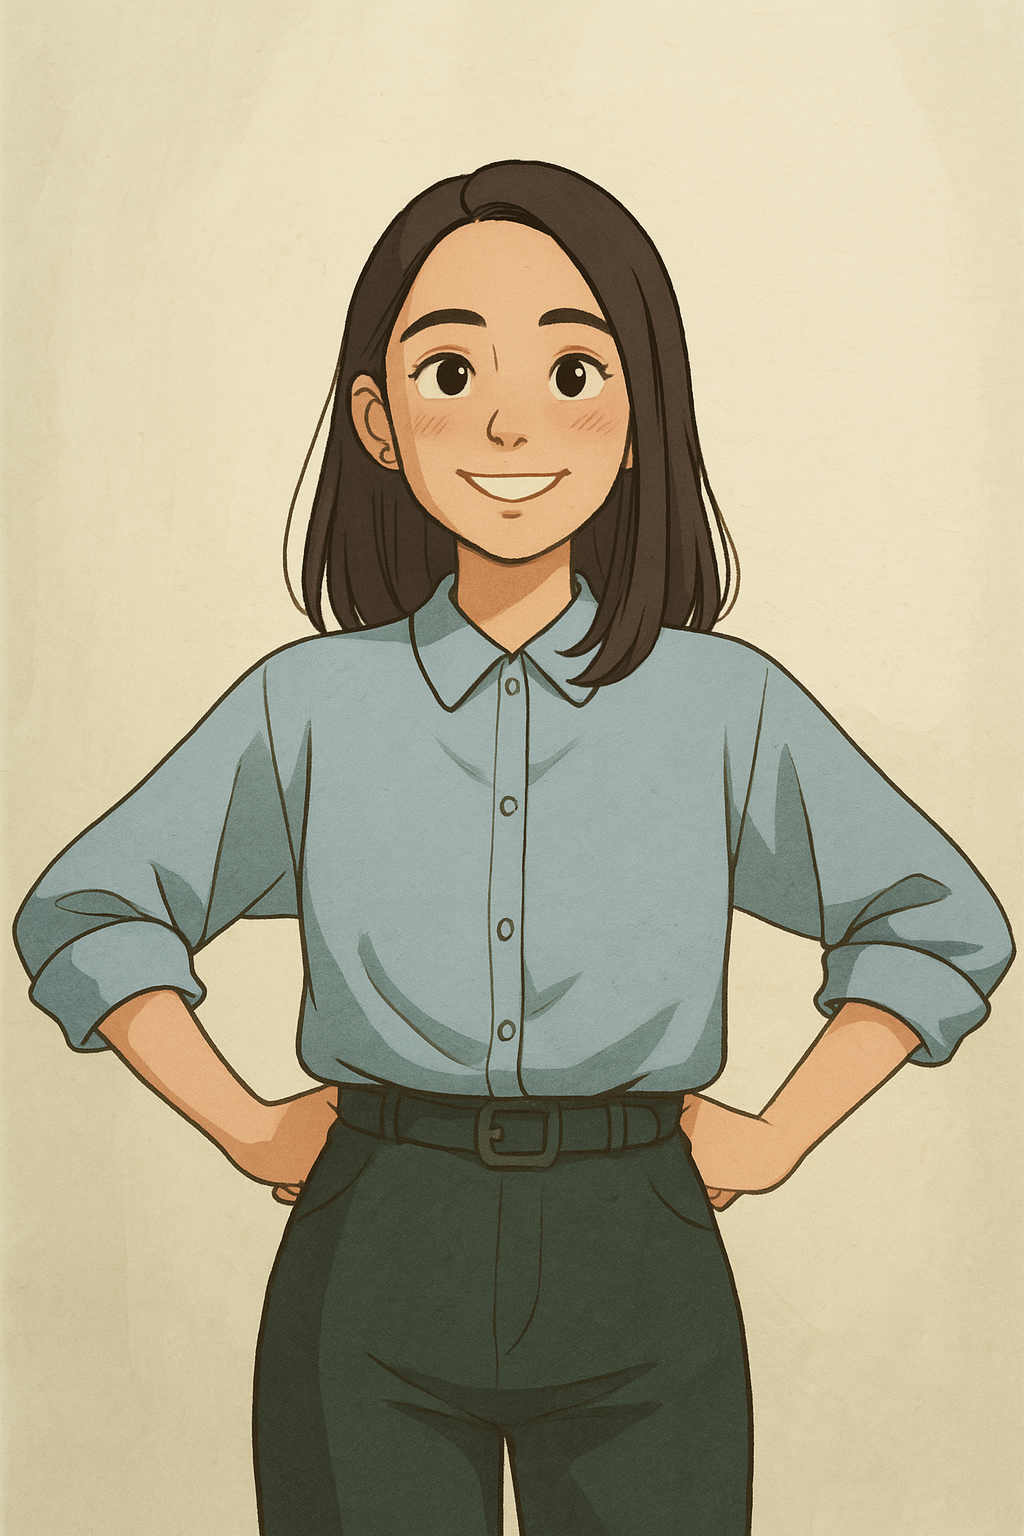
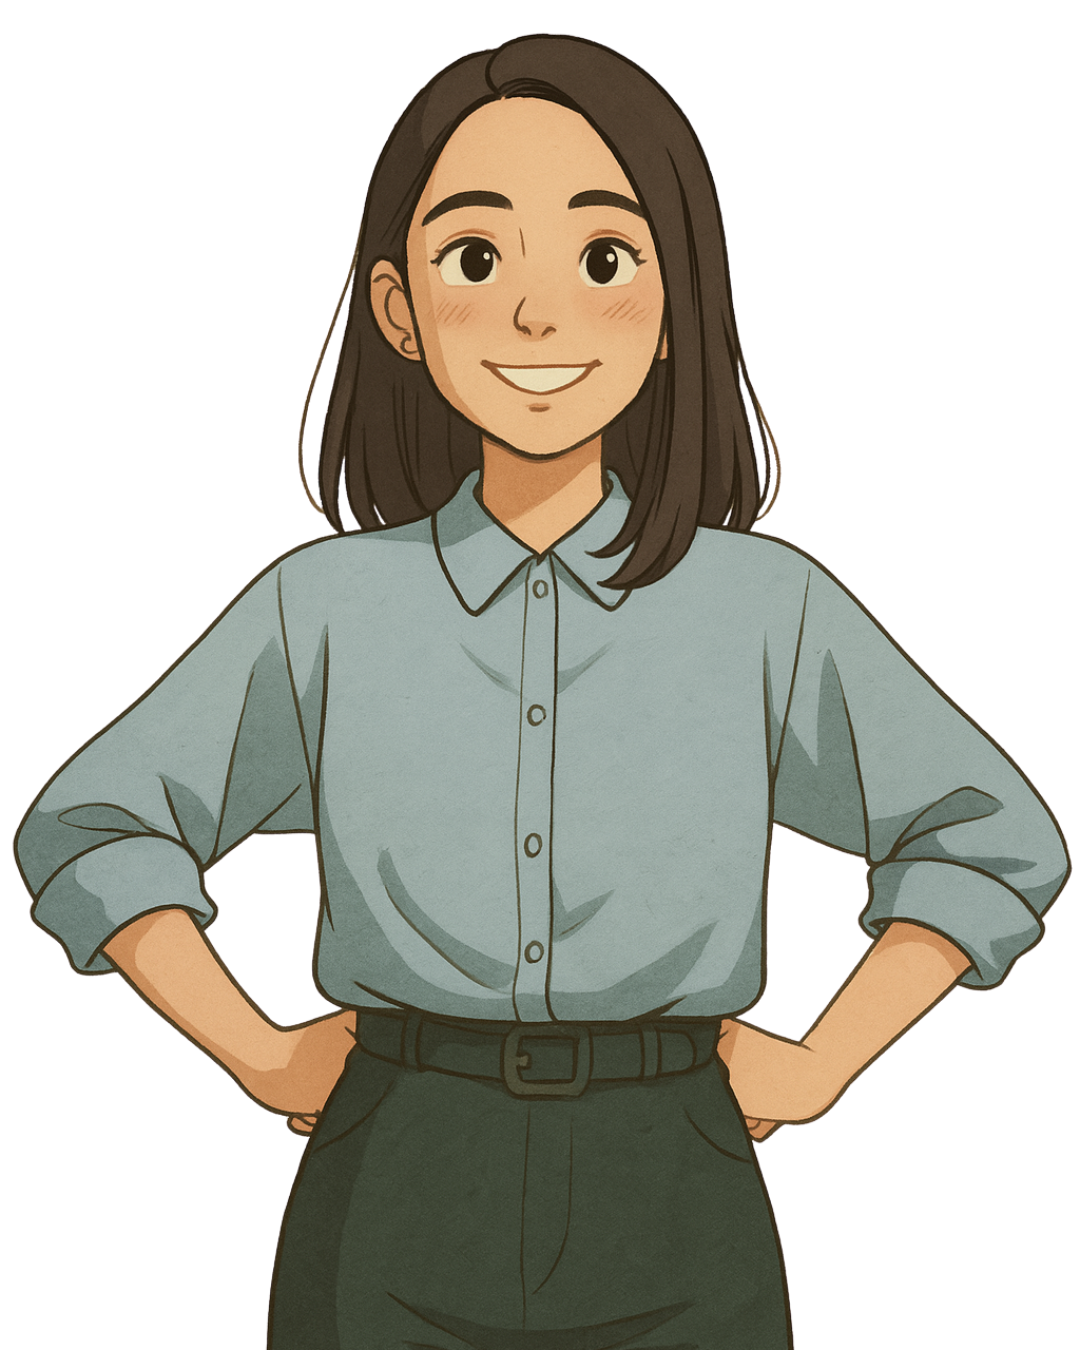
Actualizo imagen de perfil con fondo blanco y aplico fondo blanco en CSS

diff --git a/style.css b/style.css
@@ -55,20 +55,10 @@
 
   main {
     padding-top: 80px;
+    padding-left: 50px;
+    padding-right: 50px;
   }
 
-  
-  #inicio h1 {
-    color: #BA55D3; 
-    font-size: 2.5rem;
-    margin-bottom: 1rem;
-  }
-  
-  #inicio p {
-    color: #3CB371; 
-    font-size: 1.3rem;
-    font-weight: 500;
-  }
 
   .seccion-presentacion {
     display: flex;
@@ -86,16 +76,16 @@
   }
   
   .saludo {
-    font-size: 2rem;
+    font-size: 2.5rem;
     font-weight: bold;
     color: #3CB371;
   }
   
   .nombre {
-    font-size: 3.5rem;
+    font-size: 4rem;
     font-weight: bold;
     color: #BA55D3;
-    margin: 0.5rem 0;
+    margin: 0.1rem 0;
   }
   
   .descripcion {
@@ -131,6 +121,7 @@
   .foto-perfil {
     width: 300px;
     height: 300px;
+    background-color: white;
     object-fit: contain;
     border-radius: 50%;
     border: 4px solid #BA55D3;
